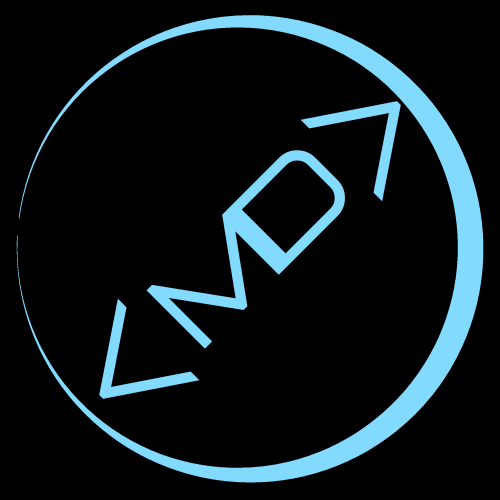
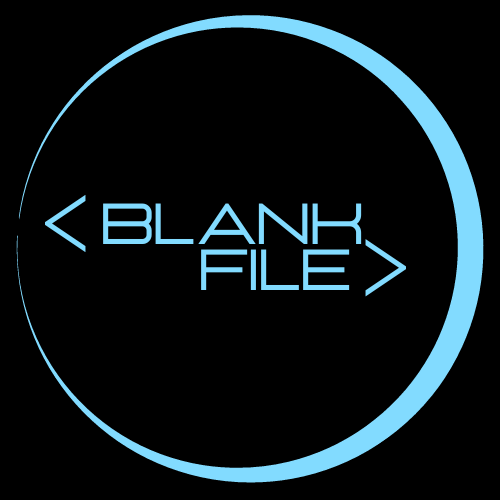
blank_file

diff --git a/index.html b/index.html
@@ -3,7 +3,7 @@
 <head>
     <meta charset="UTF-8">
     <meta name="viewport" content="width=device-width, initial-scale=1.0">
-    <title>Crear pagina web</title>
+    <title>Blank File | Crea tu pagina Web</title>
 
     <!--bootstrap-->
 
@@ -30,7 +30,7 @@
         <nav class="navbar navbar-expand-lg ">  
           <div class="container-fluid">
             <img  src="assets/md.gif" alt="moon design" class="logo">
-            <a href="" class="navbar-brand fw-semibold fs-3">Moon Design</a>
+            <a href="" class="navbar-brand fw-semibold fs-3">Blank_file</a>
         <!-- NAV BUTTON  -->
             <button class="navbar-toggler" type="button" data-bs-toggle="offcanvas" data-bs-target="#menuLateral">
             <span class="navbar-toggler-icon"></span>
@@ -38,7 +38,7 @@
         <!-- OFFCANVAS MAIN CONTAINER START -->
         <section class="offcanvas offcanvas-start" id="menuLateral" tabindex="-1">
           <div class="offcanvas-header" data-bs-theme="dark">
-            <h3 class="offcanvas-title fs-3">Moon Design</h3>
+            <h3 class="offcanvas-title fs-3">Blank_file</h3>
             <button class="btn-close" type="button" aria-label="Close" data-bs-dismiss="offcanvas"></button>
           </div>
           <!-- OFF CANVAS MENU LINKS  START-->
@@ -119,7 +119,7 @@
       <h2  class="">Las primeras impresiones son importantes</h2>
      <p>
       Un sitio web no es solo una revista llena de imagenes y textos, es la identificacion y la cara de tu empresa
-      en el mundo digital. En Moon Design nos enfocamos en los puntos relevantes de cada rubro en particular,
+      en el mundo digital. En Blank_file nos enfocamos en los puntos relevantes de cada rubro en particular,
      entregando asi, un trabajo especifico para cada empresa pensado en aumentar la visibilidad de su producto o servicio.<br>
      Te contamos a continuacion algunos puntos importantes...
      </p>
@@ -207,11 +207,11 @@
 
 <section class="nosotros row" id="about">
 
-   <div class=" img col-md-5  ">
+   <div class=" img col-md-5 offset-md-1 ">
        <img src="assets/logos.gif" class="img-fluid" alt="">
    </div>
     <div class="texto col-md-6" >
-        <div class=" col-md-12">
+        <div class=" col-md-12 p-5">
             <h3>
                 Sobre nosotros
             </h3>
@@ -219,7 +219,7 @@
                 ¿quienes somos?
             </h4>
             <p>
-            Moon Design nació con el propósito de ayudar a las 
+            Blank_file nació con el propósito de ayudar a
             pequeñas empresas a crear su presencia en línea. Con el tiempo, nuestra dedicación 
             y experiencia nos han llevado a colaborar con grandes empresas.<br>
              Aunque hemos crecido, nuestro enfoque en el éxito de nuestros 
@@ -227,16 +227,16 @@
              proporcionar sitios web personalizados, intuitivos y atractivos que impulsen el 
              crecimiento de tu negocio. </p>
         </div>
-        <div class="col-md-12" >
+        <div class="col-md-12 p-5" >
             <h4>
                Nos apasiona lo que hacemos
             </h4>
             <p>
-                Somos apasionados por lo que hacemos. Cada proyecto que asumimos es tratado con el mismo
-                 nivel de dedicación y compromiso como si fuera para nosotros mismos. 
+                Cada proyecto que asumimos es tratado con el mismo
+                 nivel de dedicación y compromiso como si fuera para nosotros. 
                  Nos enorgullece entregar resultados excepcionales, ya que comprendemos la importancia 
-                 de cada detalle para el éxito de tu negocio. Tu éxito es nuestro
-                objetivo y nos esforzamos por lograrlo en cada proyecto que emprendemos.<br>
+                 de cada detalle para el éxito de tu negocio.<br> Tu éxito es nuestro
+                objetivo, nos esforzamos por lograrlo en cada proyecto.<br>
                 Confía en nosotros para brindarte soluciones digitales personalizadas y llevar tu presencia en línea al 
                 siguiente nivel, sin importar el tamaño de tu empresa.
             </p>
@@ -271,22 +271,22 @@
     <form action="https://formsubmit.co/moondesignweb@gmail.com" method="POST"  
     class="offset-md-1 col-md-6" id="formulario-consulta">
       
-      <div class="col-md-10"> 
+      <div class="col-md-8"> 
         <label for="name"> Nombre</label>
         <input type="text"  name="Nombre" id="Nombre" placeholder="">
       </div>
 
-      <div class="col-md-10"> 
+      <div class="col-md-8"> 
         <label for="email"> Email</label>
         <input type="email" name="email" id="email" placeholder="">
       </div>
 
-      <div class="col-md-10">
+      <div class="col-md-8">
         <label for="number"> Telefono</label>
         <input type="number" name="Telefono" id="Telefono" placeholder="">
       </div>
 
-      <div class="col-md-10">
+      <div class="col-md-8">
         <label for="mensaje"> Mensaje</label>
         <textarea name=" Mensaje " id="Mensaje"  placeholder="Cuentanos sobre tu proyecto:"> </textarea>
       </div>

diff --git a/style.css b/style.css
@@ -425,6 +425,7 @@ justify-content: center;
 .nosotros{
  background-color: #000000;
  padding-bottom: 100px;
+ padding-top: 100px;
  
 }
 
